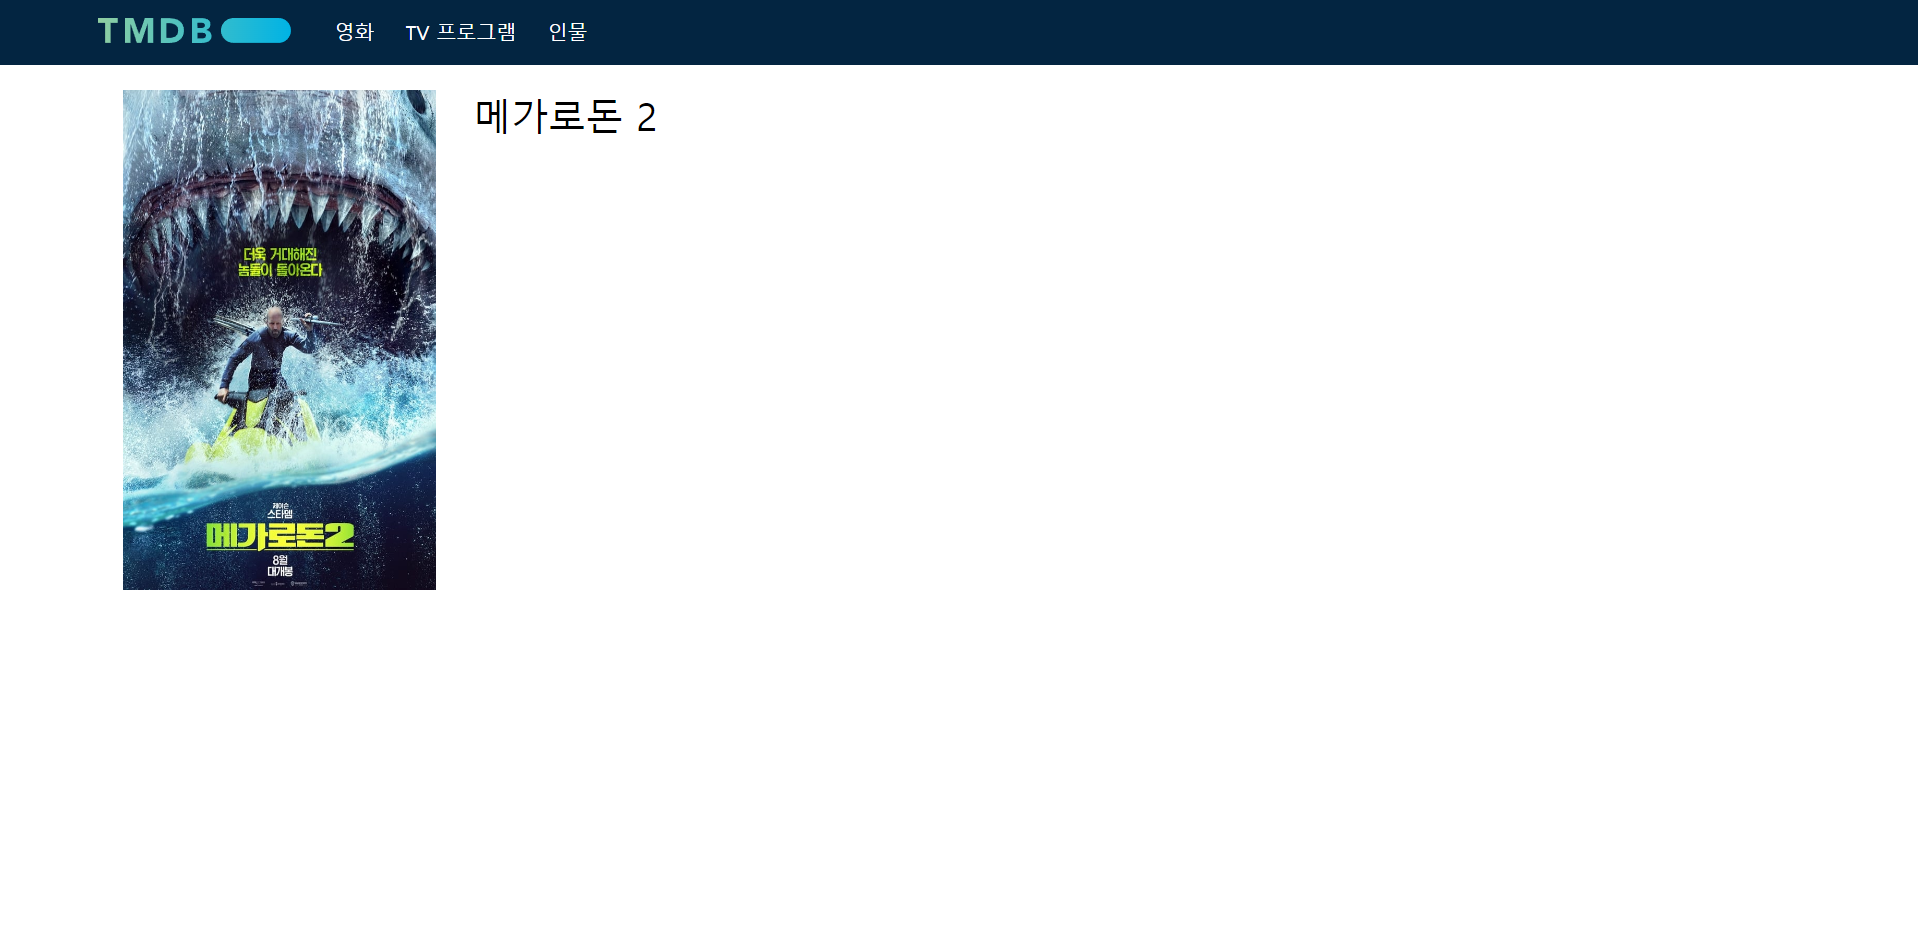
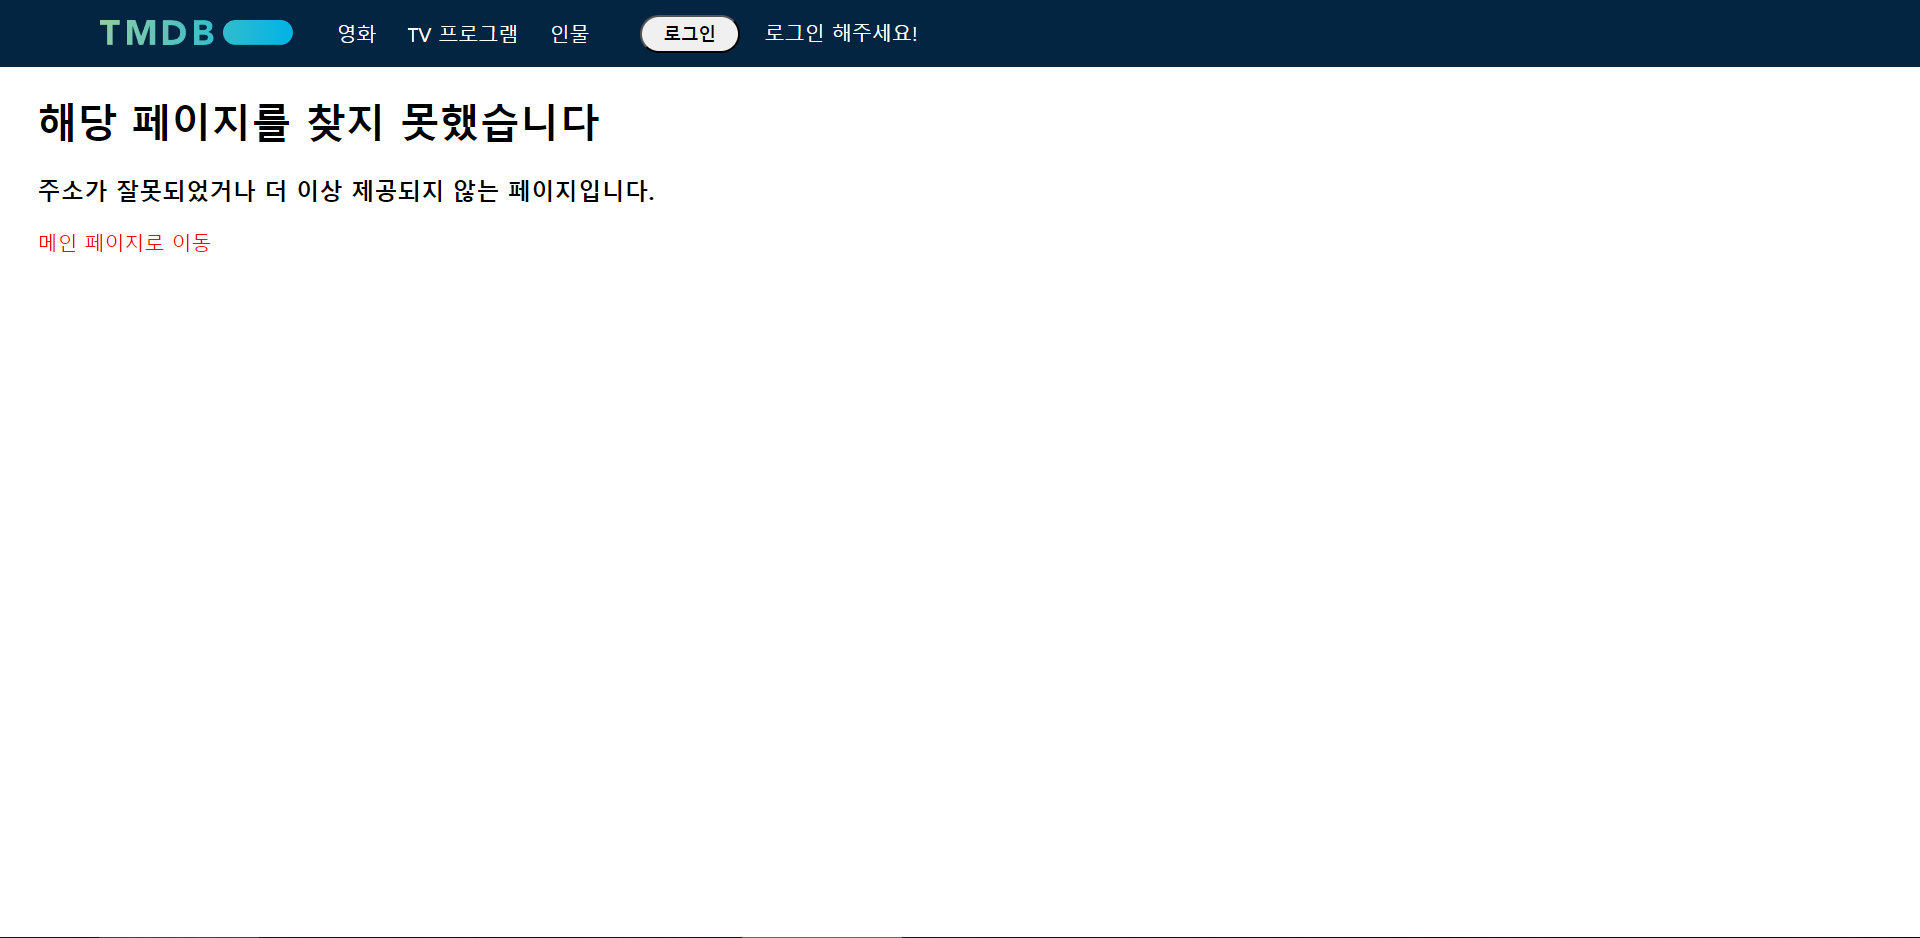
ch7 create

diff --git a/src/Components/LoginControl.jsx b/src/Components/LoginControl.jsx
@@ -1,0 +1,31 @@
+import React, { useState } from "react";
+import "../index.css";
+
+function LoginControl() {
+  const [isLoggedin, setIsLoggedin] = useState(false);
+
+  const handleLoginClick = () => {
+    setIsLoggedin(true);
+  };
+
+  const handleLogoutClick = () => {
+    setIsLoggedin(false);
+  };
+
+  const buttonText = isLoggedin ? "로그아웃" : "로그인";
+  const loginText = isLoggedin ? "환영합니다!" : "로그인 해주세요!";
+
+  return (
+    <div>
+      <button
+        className="loginbutton"
+        onClick={isLoggedin ? handleLogoutClick : handleLoginClick}
+      >
+        {buttonText}
+      </button>
+      <span className="logintext">{loginText}</span>
+    </div>
+  );
+}
+
+export default LoginControl;

diff --git a/src/App.js b/src/App.js
@@ -37,7 +37,7 @@ function App() {
           <Route path="/Movie/:name" element={<MovieDetail />} />
           <Route path="/TV" element={<TV />} />
           <Route path="/Celebrity" element={<Celebrity />} />
-          <Route path="*" element={<NotFound />} />
+          <Route path="/*" element={<NotFound />} />
         </Routes>
       </BrowserRouter>
     </div>

diff --git a/src/index.css b/src/index.css
@@ -57,6 +57,21 @@
   display: flex;
   text-align: center;
 }
+.loginbutton {
+  margin-top: 12px;
+  margin-left: 40px;
+  width: 80px;
+  height: 30px;
+  border-radius: 25px;
+  font-weight: bold;
+  font-size: 14px;
+  border-color: none;
+}
+.logintext {
+  color: white;
+  margin-left: 20px;
+}
+
 .logo {
   width: 154px;
   height: 20px;

diff --git a/src/Components/Header.jsx b/src/Components/Header.jsx
@@ -1,5 +1,6 @@
 import { Link } from "react-router-dom";
 import "../index.css";
+import LoginControl from "./LoginControl";
 
 export default function Header() {
   return (
@@ -22,6 +23,7 @@ export default function Header() {
           <li>인물</li>
         </Link>
       </ul>
+      <LoginControl />
     </div>
   );
 }
